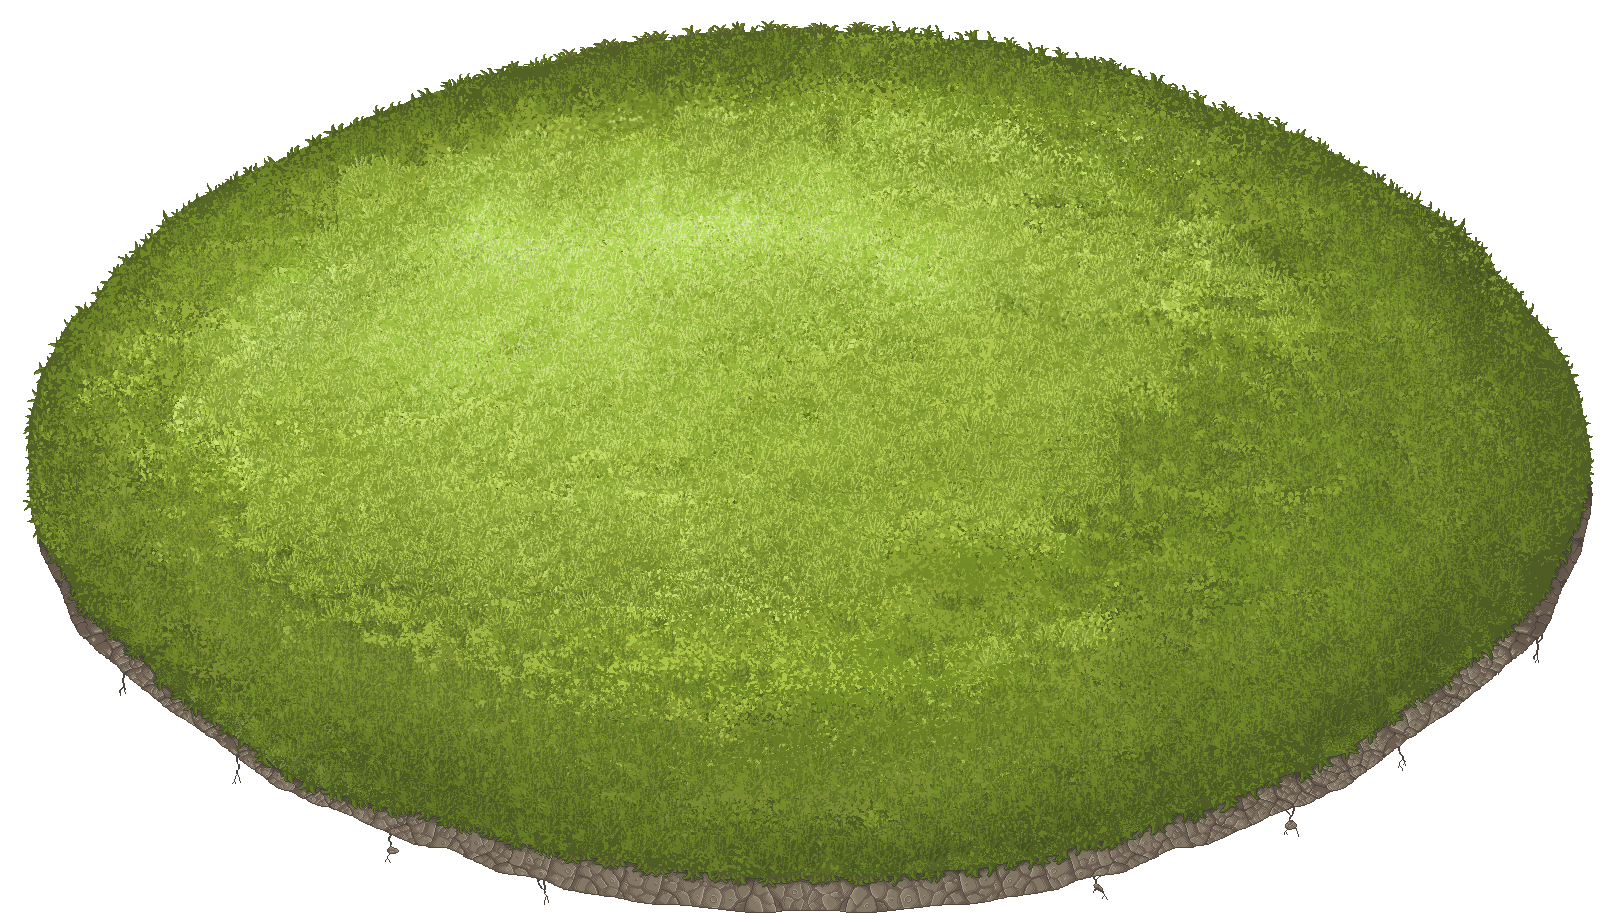
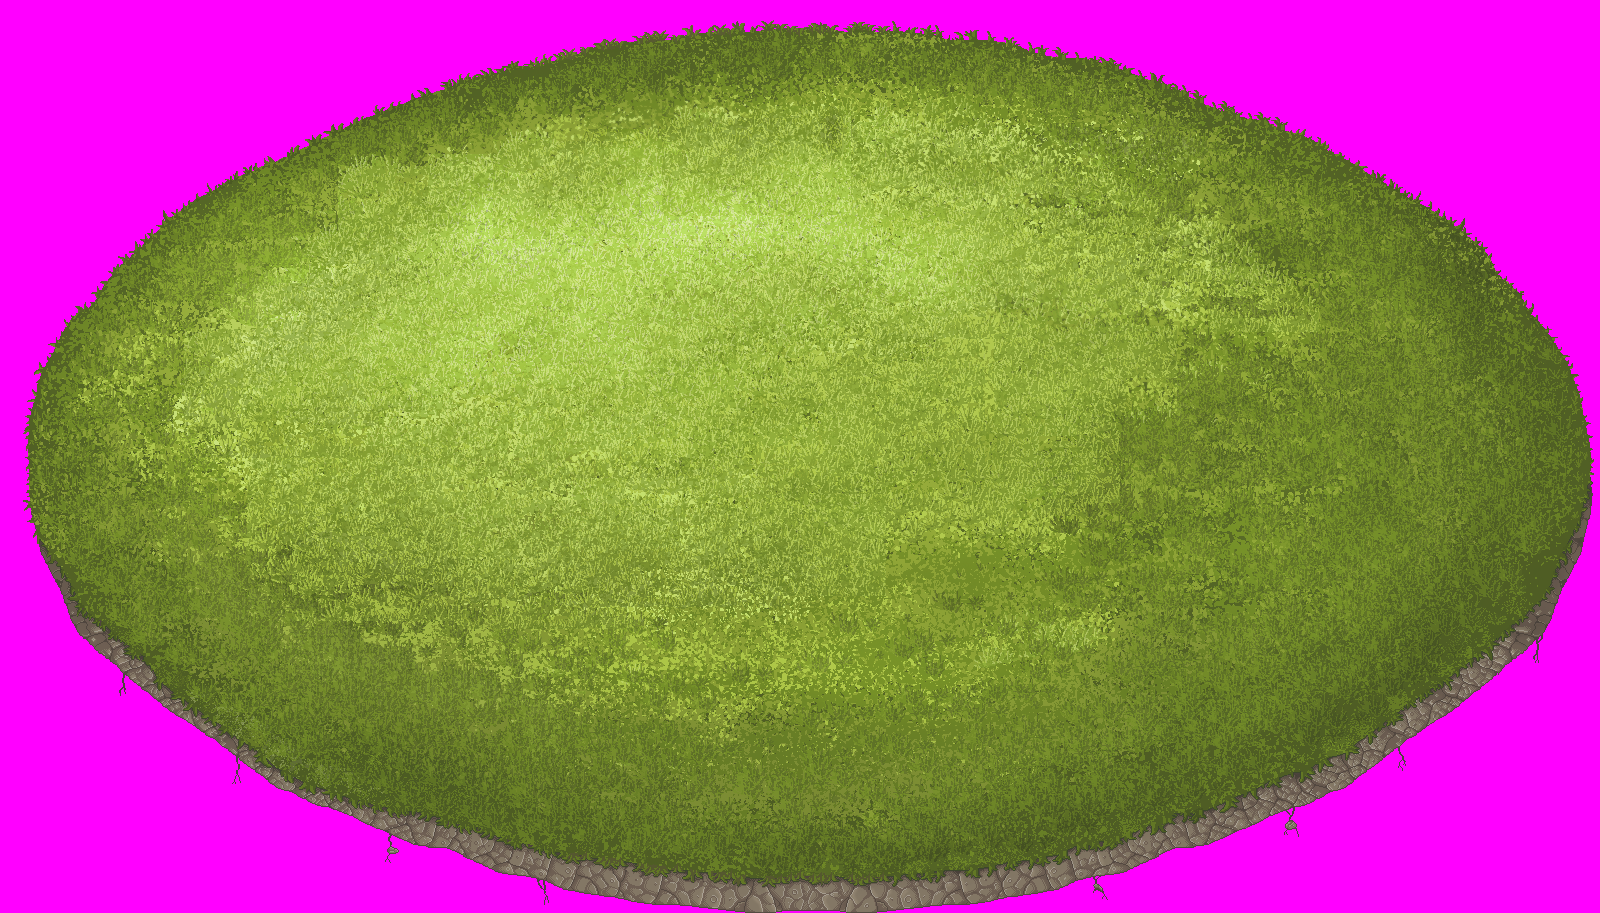
Added a background. Added clouds that will move through they sky. Starting to flesh out the game states. Will move StartScreenState code to NewGameState once done...to lazy to do it now.

Changed region(s): [[0.0, 0.0, 1.0, 1.0], [0.5, 0.9814, 0.5312, 1.0]]

diff --git a/src/robotkittenearthguardians/graphics/Screen.java b/src/robotkittenearthguardians/graphics/Screen.java
@@ -57,6 +57,24 @@ public class Screen {
 		this.cameraYCoord = yOffset;
 	}
 	
+	public void renderBackground(SpriteSheets sprite, boolean clouds) {
+		if(clouds) {
+			renderClouds();
+		}
+		
+		int pixelIndex;
+		for(int y = 0; y < height; y++) {
+			for(int x = 0; x < width; x++) {
+				int xAbs = x + cameraXCoord;
+				int yAbs = y + cameraYCoord;
+				pixelIndex = (xAbs) + (yAbs) * sprite.getXSheetSize();
+				if(xAbs > 0 && yAbs > 0 && xAbs < sprite.getXSheetSize() && yAbs < sprite.getYSheetSize()) {
+					pixels[x + y * width] = sprite.getSpriteSheetsPixels(pixelIndex);
+				}
+			}
+		}
+	}
+	
 	/**
 	 * Renders the level
 	 */
@@ -148,6 +166,10 @@ public class Screen {
 		}
 	}
 	
+	public void renderClouds(){
+		
+	}
+	
 	/**
 	 * Draws the rendered image to screen
 	 */
@@ -167,12 +189,6 @@ public class Screen {
 		g2.drawString("Projectile ArrayList: " + Entity.getProjectilesSize(), 30, 130);
 		g2.drawString("Particle ArrayList: " + Entity.getParticleSize(), 30, 155);
 		g2.drawString("Mob ArrayList: " + Entity.getMobSize(), 30, 180);
-	}
-	
-	public void background() {
-		g2.setColor(Color.BLACK);
-		g2.fillRect(0, 0, MainGame.getScreenWidth() * MainGame.getScreenScale(),
-				MainGame.getScreenHeight() * MainGame.getScreenScale());
 	}
 
 	/**

diff --git a/src/robotkittenearthguardians/gameState/StartScreenState.java b/src/robotkittenearthguardians/gameState/StartScreenState.java
@@ -6,6 +6,7 @@ import robotkittenearthguardians.MainGame;
 import robotkittenearthguardians.entity.mob.Player;
 import robotkittenearthguardians.graphics.Camera;
 import robotkittenearthguardians.graphics.Screen;
+import robotkittenearthguardians.graphics.SpriteSheets;
 import robotkittenearthguardians.input.Keyboard;
 import robotkittenearthguardians.level.Level;
 
@@ -16,6 +17,7 @@ public class StartScreenState extends GameState {
 		level = new Level();
 		player = new Player(850, 430, key);
 		camera = new Camera(MainGame.getScreenWidth(), MainGame.getScreenHeight());
+		bg = SpriteSheets.mainBg;
 	}
 
 	public void update() {
@@ -26,9 +28,8 @@ public class StartScreenState extends GameState {
 		screen.update(bs);
 		screen.clear();
 
-		screen.background();
-		
 		camera.render(screen, player);
+		screen.renderBackground(bg, true);
 		level.render(screen);
 		screen.drawImage();
 		screen.gui(player);

diff --git a/src/robotkittenearthguardians/gameState/GameState.java b/src/robotkittenearthguardians/gameState/GameState.java
@@ -5,6 +5,7 @@ import java.awt.image.BufferStrategy;
 import robotkittenearthguardians.entity.mob.Player;
 import robotkittenearthguardians.graphics.Camera;
 import robotkittenearthguardians.graphics.Screen;
+import robotkittenearthguardians.graphics.SpriteSheets;
 import robotkittenearthguardians.input.Keyboard;
 import robotkittenearthguardians.level.Level;
 
@@ -16,6 +17,7 @@ public class GameState {
 	protected Player player;
 	protected Camera camera;
 	protected BufferStrategy bs;
+	protected SpriteSheets bg;
 		
 	public GameState() {
 	}
@@ -25,5 +27,4 @@ public class GameState {
 		
 	public void render(Screen screen, BufferStrategy bs) {
 	}
-
 }

diff --git a/src/robotkittenearthguardians/graphics/SpriteSheets.java b/src/robotkittenearthguardians/graphics/SpriteSheets.java
@@ -17,6 +17,8 @@ public class SpriteSheets {
 	public static SpriteSheets mainBullet = new SpriteSheets("/projectiles/bullet.png", 16, 16);
 	public static SpriteSheets bulletImpact = new SpriteSheets("/projectiles/bullet_impact.png", 128, 16);
 	public static SpriteSheets waterBalloon = new SpriteSheets("/actors/waterballoon_enemy.png", 256, 32);
+	public static SpriteSheets mainBg = new SpriteSheets("/bg/bg.png", 1600, 963);
+	public static SpriteSheets clouds = new SpriteSheets("/bg/clouds.png", 1600, 963);
 	
 	public SpriteSheets(String path, int xSize, int ySize) {
 		this.path = path;

diff --git a/src/robotkittenearthguardians/entity/mob/WaterBalloon.java b/src/robotkittenearthguardians/entity/mob/WaterBalloon.java
@@ -10,7 +10,7 @@ import robotkittenearthguardians.level.Level;
 public class WaterBalloon extends Mob{
 
 	private double speed = 3.2;
-	private int sightRange = 300;
+	private int sightRange = 1;
 	WaterBalloonAi ai;
 
 	public WaterBalloon(int x, int y) {

diff --git a/src/robotkittenearthguardians/gameState/NewGameState.java b/src/robotkittenearthguardians/gameState/NewGameState.java
@@ -23,8 +23,6 @@ public class NewGameState extends GameState{
 	public void render(Screen screen, BufferStrategy bs) {
 		screen.update(bs);
 		screen.clear();
-
-		screen.background();
 		
 		camera.render(screen, player);
 		level.render(screen);
